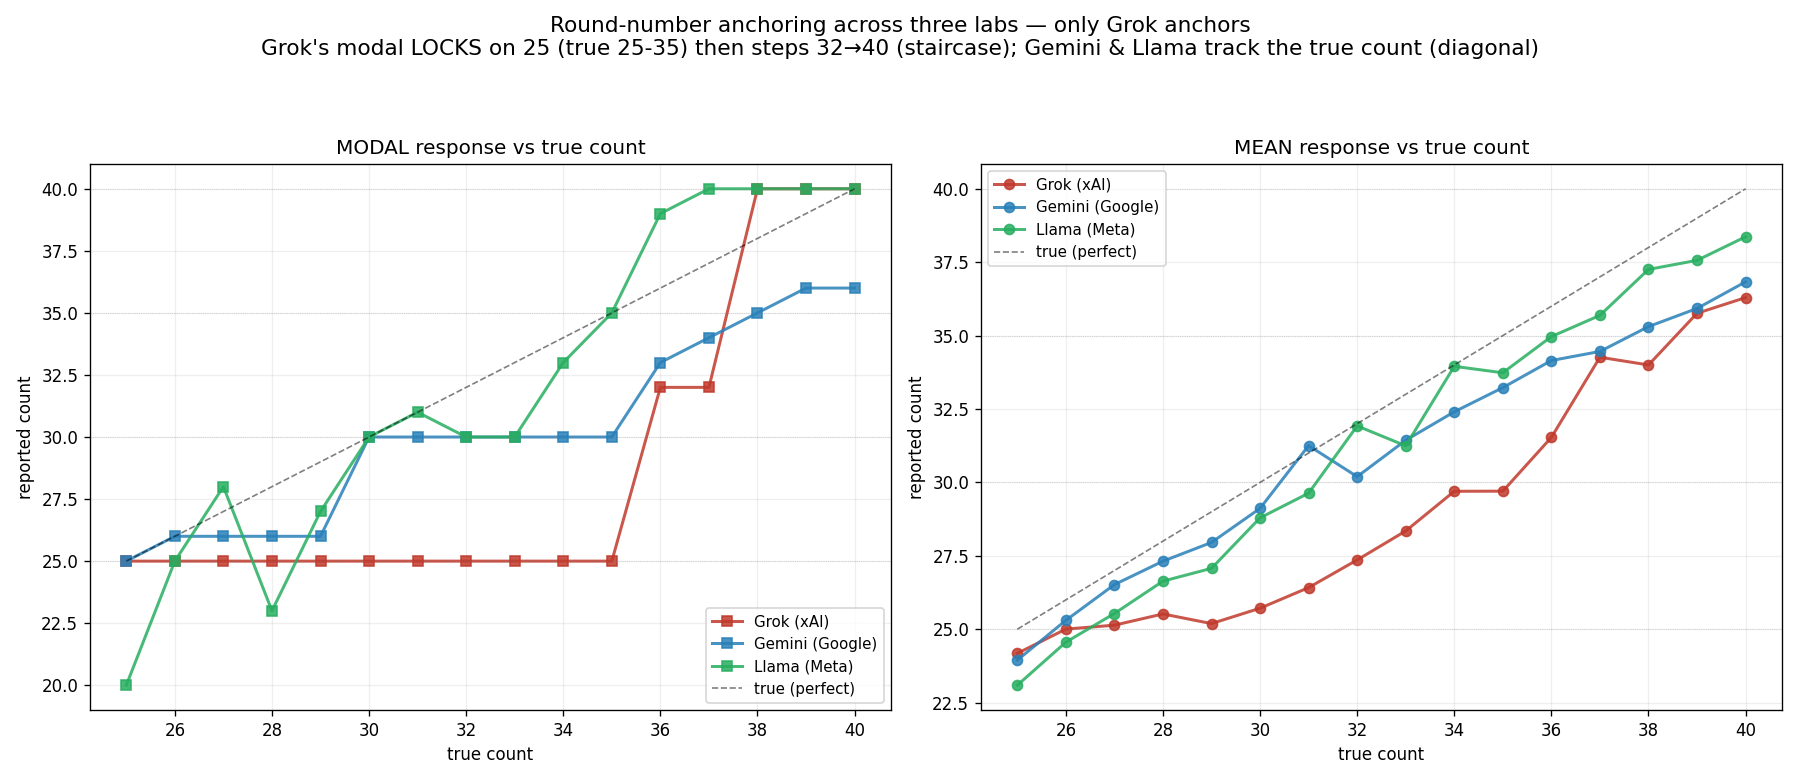
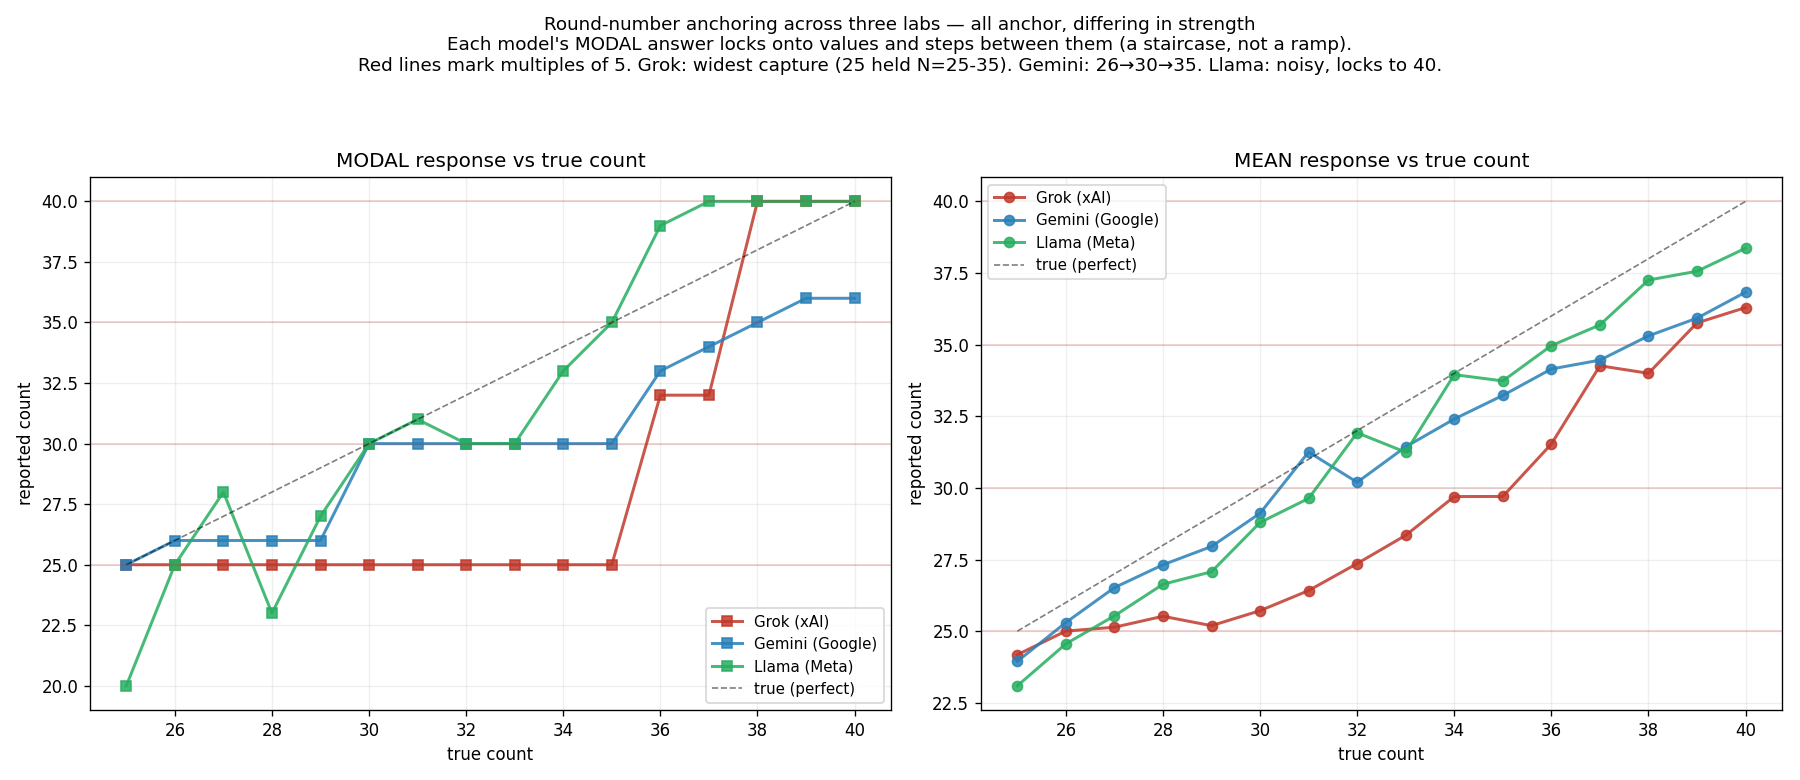
Correct anchoring framing: ALL THREE models anchor, differing in strength
Revised reading of the modal data: Gemini and Llama also show round-number locking (modal
plateaus stepping 25->30->35/40), not smooth tracking as first written. All three produce
staircases; they differ in strength (Grok: 11-count capture zone on 25, 55% of answers round;
Gemini/Llama: ~4-count plateaus, bulk near chance but mode still locks). Added quantitative
capture-width + modal-on-x5 + share-on-x5 metrics. Updated paper, both READMEs, the 3-model
figure title, and regenerated the .docx. Tightened the methodology section.

🤖 Generated with [Claude Code](https://claude.com/claude-code)

diff --git a/number-sense/PAPER.md b/number-sense/PAPER.md
@@ -1,4 +1,4 @@
-# Number Sense in Vision-Language Models: Subitizing, Weberian Estimation, and Model-Specific Round-Number Anchoring
+# Number Sense in Vision-Language Models: Subitizing, Weberian Estimation, and Round-Number Anchoring
 
 *Ted Inoué, with the Solebury Mountain Research Collective*
 *Working paper — data and code: github.com/tedinoue/cogpsych-llm*
@@ -12,15 +12,17 @@ whether they can count but what the *shape* of their number cognition is, and wh
 the human profile. Across three models from three independent labs (xAI's Grok, Meta's Llama,
 Google's Gemini), a coarse human signature replicates: near-exact performance on small sets
 (subitizing) gives way, above ~4 items, to estimation whose error grows with the number being
-judged (Weber's law). The fine structure, however, is model-specific. Only one model (Grok)
-subitizes perfectly; estimation precision tracks model capability; and most strikingly,
-**round-number anchoring** — a documented human estimation strategy in which responses cluster on
-multiples of five — appears strongly in Grok and is essentially absent in Gemini and Llama. We
-demonstrate the anchoring result with a dedicated test covering every integer from 25 to 40, where
-Grok's single most-common answer remains locked on "25" across true counts from 25 through 35
-before stepping discretely upward. We conclude that the analog magnitude system (subitizing plus
-magnitude-scaled error) is architecture-general, while its precision and the human-like
-decision-strategy overlay that sits on top of it are model-specific. All raw model responses are
+judged (Weber's law). The fine structure varies by model. Only one model (Grok) subitizes
+perfectly; estimation precision tracks model capability; and **round-number anchoring** — a
+documented human estimation strategy in which responses cluster on multiples of five — appears in
+**all three** models, varying markedly in strength. We demonstrate this with a dedicated test
+covering every integer from 25 to 40: each model's most-common answer locks onto preferred values
+and holds them across runs of consecutive true counts (a staircase), Grok most extremely (its mode
+remains "25" across true counts 25 through 35), Gemini and Llama more mildly (modal plateaus of
+about four counts on values such as 26, 30, and 40). We conclude that the analog magnitude system
+(subitizing plus magnitude-scaled error) is architecture-general, and that the human-like
+round-number-anchoring strategy is architecture-general in kind while differing in degree across
+models; estimation precision, in turn, tracks model capability. All raw model responses are
 published; every reported value was scored by reading the responses, not by automated parsing.
 
 ---
@@ -97,7 +99,7 @@ absolute error grows with the number judged.
 - **Weberian error growth.** Above the subitizing range, the spread of responses widens with the
   true count — error scaling with magnitude, the analog-estimation signature. The coefficient of
   variation is present but is *not* a clean flat constant of the idealized human kind; it wobbles,
-  and (in Grok) is distorted by round-number clustering (§4).
+  and is distorted by the round-number clustering documented in §4.
 - **Precision tracks model quality.** Gemini, the strongest of the three small models, produces
   the tightest estimates and never fails. Llama, the weakest, is the noisiest and occasionally
   breaks down (refusals, garbled output, wild outliers). The analog system appears universal; its
@@ -108,7 +110,7 @@ absolute error grows with the number judged.
 The basic number-sense shape thus appears across three independent architectures and vendors; it
 is not an artifact of any one lab's model.
 
-## 4. Results: round-number anchoring is model-specific
+## 4. Results: round-number anchoring is general, and varies in strength
 
 The Weber experiment alone cannot test for round-number anchoring, because its high-N set sizes
 (15, 20, 25, 30, 40) are themselves mostly round: a model is almost never shown a non-round
@@ -116,53 +118,71 @@ quantity in the range where rounding would surface. We therefore ran a dedicated
 integer from 25 to 40**, interleaving round anchors (25, 30, 35, 40) with non-round fillers.
 
 The clean diagnostic is the **modal response** — the single most common answer at each true count.
-If a model anchors, its most likely answer stays "stuck" on a round value as the true count
-changes, producing a flat *staircase* when modal response is plotted against true count. If a model
-estimates honestly, its modal response climbs with the true count, producing a *diagonal*. (We
-avoid leaning on "percent of answers that are multiples of five," because at a true count of 25 the
-answer "25" is also simply correct; that metric conflates anchoring with accuracy.)
+If a model anchors, its most likely answer stays "stuck" on a value across a run of consecutive
+true counts, producing a *staircase* when modal response is plotted against true count: flat treads
+on preferred values, with discrete steps between them. If a model estimated without any preferred
+values, its modal response would climb smoothly with the true count (a diagonal).
 
-The three models dissociate sharply:
+**All three models produce staircases, not diagonals.** Each one's modal answer locks onto a value
+and holds it across a run of true counts before stepping. Their modal sequences (true count 25 → 40):
 
-| Model | Anchors? | Modal response, true counts 25 → 40 |
-|---|---|---|
-| **Grok** (xAI) | **Yes, strongly** | locked on **25** from true 25 through 35, then steps to 32, then 40 — a staircase |
-| **Gemini** (Google) | No | climbs with the true count — a diagonal |
-| **Llama** (Meta) | No | climbs with the true count (noisy; mild stickiness near 40) — a diagonal |
+- **Grok:** 25, 25, 25, 25, 25, 25, 25, 25, 25, 25, 25, 32, 32, 40, 40, 40
+- **Gemini:** 25, 26, 26, 26, 26, 30, 30, 30, 30, 31, 30, 33, 35, 35, 36, 36
+- **Llama:** 20, 25, 28, 23, 27, 30, 31, 30, 30, 33, 36, 39, 40, 40, 40, 40
 
-Grok's anchoring is dramatic: its single most likely answer does not move across an eleven-unit
-range of true counts (25 through 35). The mean creeps upward over that range only because a
-minority of non-"25" responses drags the average along; the *mode* — the model's go-to answer — is
-flat. Gemini and Llama, by contrast, track the true count with no round-number lock-on. All three
-under-estimate, but only Grok rounds.
+Gemini's mode holds at ~26 across true counts 26–29, then locks on **30** across 30–33, then climbs
+in steps and reaches only 35–36 even when the true count is 40. Llama, noisier, bounces near 25 for
+25–29, sticks near **30** for 30–33, then climbs and locks on **40** for the top four. Grok shows the
+same behavior in extreme form.
 
-Round-number anchoring — a documented *human* estimation strategy, and thus a point of potential
-convergence between model and human cognition — therefore appears strongly in one frontier model
-and is absent in two others. It is not a universal property of vision-LLM number estimation. It
-belongs to each model's particular profile.
+Three quantitative measures (true counts 25–40; for a non-anchoring estimator, chance gives a modal
+multiple-of-five at ~4/16 and ~20% of all answers on a multiple of five):
+
+| Measure | Grok (xAI) | Gemini (Google) | Llama (Meta) |
+|---|---|---|---|
+| True counts whose **mode is a multiple of 5** | **14 / 16** | 8 / 16 | 9 / 16 |
+| Widest **capture zone** (consecutive true counts sharing one locked mode) | **11** (value 25) | 4 (values 26, 30) | 4 (value 40) |
+| Share of **all** answers on a multiple of 5 | **55 %** | 25 % | 26 % |
+
+The pattern is consistent across all three labs: round-number/value anchoring is present in every
+model, manifesting as modal plateaus that lock onto preferred values and step between them. What
+differs is **strength**. Grok is extreme — its mode holds the value 25 across eleven consecutive
+true counts, nearly all of its modal answers are multiples of five, and a clear majority (55%) of
+*all* its responses are multiples of five, far above the ~20% chance baseline. Gemini and Llama are
+milder: their overall multiple-of-five rates sit only just above chance (25–26%), but their *modal*
+answers nonetheless lock into round plateaus (four-count treads on 26, 30, and 40), which is the
+anchoring signature appearing in the mode even when the bulk distribution looks near-chance.
+
+Round-number anchoring is a documented *human* estimation strategy (anchoring-and-adjustment; the
+clustering of numerosity estimates on round values — Tversky & Kahneman, 1974; Solstad et al.,
+2026), and is thus a point of convergence between model and human cognition. Our data indicate this
+convergence is **architecture-general in kind but model-specific in degree**: every model anchors,
+and they differ markedly in how wide the capture zones are and how strongly the responses pile onto
+round values.
 
 ## 5. Discussion
 
-Two layers separate cleanly in these data. The **analog magnitude layer** — subitizing followed by
+Two layers appear in these data. The **analog magnitude layer** — subitizing followed by
 magnitude-scaled estimation error — is shared across all three models and matches the human core
 number sense in shape. The **decision-strategy layer** that humans lay on top of the analog
-estimate — comparison to references, partitioning, and round-number anchoring — is *model-specific*:
-it is pronounced in Grok and largely absent in Gemini and Llama.
+estimate — comparison to references, partitioning, and round-number anchoring — also appears across
+all three, but its *strength* varies sharply by model: pronounced in Grok (wide capture zones, a
+majority of answers on round values), milder in Gemini and Llama (short modal plateaus, bulk
+distributions only just above chance).
 
 This maps onto a useful framing of human numerical cognition itself, in which a shared, evolutionarily
-old analog system is augmented by learned, language-mediated procedures. The models appear to
-reproduce the analog layer near-universally while differing in which human-like decision strategies,
-if any, they have acquired. We summarize this as each model having its own "numerical personality":
-the broad number-sense shape is convergent, the fine structure is not.
+old analog system is augmented by learned, language-mediated procedures. The models reproduce the
+analog layer near-universally and also exhibit the round-number-anchoring strategy near-universally,
+differing in how strongly that strategy is expressed. We summarize this as each model having its own
+"numerical personality": the broad shape is convergent in kind, the degree of each feature is not.
 
-A note on the round-number result and human comparison: it would be a mistake to read Grok's
-anchoring as a *non-human* quirk. Humans anchor on round numbers in exactly this paradigm. Grok's
-anchoring is, if anything, a point of convergence with human decision strategy — and what the
-cross-model picture adds is that this convergence is itself model-dependent, present in some systems
-and not others.
+A note on the round-number result and human comparison: it would be a mistake to read this
+anchoring as a *non-human* quirk. Humans anchor on round numbers in exactly this paradigm. The
+models' anchoring is, if anything, a point of convergence with human decision strategy — and what
+the cross-model picture adds is that the *degree* of this convergence is model-dependent.
 
 *A casual, non-load-bearing observation, offered only as a direction for future work and not as a
-finding:* in separate, earlier color-perception work, the same model (Grok) tended to hold a
+finding:* in separate, earlier color-perception work, one of these models (Grok) tended to hold a
 canonical reference value — a named color, "school-bus yellow," cited to a standard — against a
 gradually shifting perceptual input longer than other models, and to manufacture precise-sounding
 reference values when pressed. Whether this loosely resembles the number-anchoring behavior, and
@@ -176,23 +196,15 @@ Every numeric result above was obtained by **reading** the model responses, not 
 answers with a script. This is deliberate. Automated extraction of "the answer" from a
 language-model response is unreliable for anything beyond the most trivial outputs: models narrate
 a count before committing to a total, self-correct mid-response, answer in an unexpected register,
-or produce ranges and refusals. A regex that reduces all of this to a single integer produces
-*unreliable data*, not merely unreliable analysis — and does so silently. In the course of this work,
-an automated parser turned a *correct* high-count answer into a fabricated "catastrophic collapse"
-by grabbing a digit out of the model's enumeration list; the error was invisible until the raw
-responses were read.
+or produce ranges and refusals. A regular expression that reduces all of this to a single integer
+can silently produce *unreliable data*, not merely unreliable analysis — for example by grabbing a
+digit out of an enumeration list rather than the final committed total.
 
-The harness therefore writes every full response to disk, and analysis is performed by reading.
-This repository publishes all raw responses so that any reader can re-score them. The visualization
-scripts operate only on the human-read answer values, never on raw model output.
-
-We also note, frankly, that several of this study's conclusions were revised after human review of
-the model's own confident summaries: an apparent "collapse" that was a parsing artifact; an initial
-reading of round-number clustering as non-human that the human literature corrected to a
-convergence; and a premature "absent in other models" claim about anchoring that had in fact never
-been tested until the dedicated experiment of §4 was run. The analysis pipeline's human-in-the-loop
-review step changed the conclusions, and we regard that as a feature of the method rather than an
-embarrassment to be hidden.
+The harness therefore writes every full response to disk, and analysis is performed by reading those
+responses; the answer-extraction is done by a human reader, with every ambiguous case (self-
+corrections, ranges, refusals) adjudicated explicitly and recorded. This repository publishes all
+raw responses so that any reader can re-score them independently. The visualization scripts operate
+only on the human-read answer values, never on raw model output.
 
 ## 7. Limitations
 

diff --git a/number-sense/anchoring/README.md b/number-sense/anchoring/README.md
@@ -32,29 +32,44 @@ true N):
 answering "25" is also just *correct*, so that metric conflates anchoring with accuracy. The
 modal staircase and the per-N histograms are the clean signals.)
 
-## Result: anchoring is model-specific — only Grok anchors
+## Result: all three models anchor — differing in strength
 
 ![three-model comparison](figures/anchor_three_model.png)
 
-| Model | Anchors? | Modal behavior (true 25 → 40) |
-|---|---|---|
-| **Grok** (grok-4.20-non-reasoning, xAI) | **Yes, strongly** | modal **locked on 25 from true 25 through 35**, then steps to 32, then 40 — a staircase |
-| **Gemini** (gemini-2.5-flash-lite, Google) | No | modal **climbs with the true count** (tracks the diagonal) |
-| **Llama** (llama-3.2-11b-vision, Meta) | No | modal **climbs with the true count** (noisy; mild stickiness on 40 at the top) |
+Every model's modal answer locks onto values and holds them across runs of consecutive true counts
+before stepping — a **staircase**, not a smooth diagonal. Modal sequences (true 25 → 40):
 
-- **All three systematically *under-estimate*** (mean below the true count, gap widening with N) —
-  a shared compression. But only Grok's *modal* answer anchors.
-- **Grok's anchoring is dramatic**: its single most likely answer doesn't move across an 11-unit
-  range of true counts (25→35). See [`figures/anchor_grok_hist_curve.png`](figures/anchor_grok_hist_curve.png)
-  and the per-N histograms [`figures/anchor_grok_hist.png`](figures/anchor_grok_hist.png).
-- **Gemini and Llama track** the true count with no round-number lock-on
-  ([gemini](figures/anchor_gemini_hist_curve.png), [llama](figures/anchor_llama_hist_curve.png)).
+- **Grok:**  `25 25 25 25 25 25 25 25 25 25 25 32 32 40 40 40`
+- **Gemini:** `25 26 26 26 26 30 30 30 30 31 30 33 35 35 36 36`
+- **Llama:**  `20 25 28 23 27 30 31 30 30 33 36 39 40 40 40 40`
+
+Gemini's mode holds ~26 across true 26–29, then locks on **30** across 30–33, climbs in steps, and
+reaches only 35–36 even at true 40. Llama (noisier) bounces near 25 for 25–29, sticks near **30**
+for 30–33, then climbs and locks on **40** for the top four. Grok shows the same behavior in extreme
+form (its mode holds the value 25 across true counts 25–35).
+
+Quantitatively (true 25–40; a non-anchoring estimator gives a modal multiple-of-5 at ~4/16 and ~20%
+of all answers on a multiple of 5):
+
+| Measure | Grok (xAI) | Gemini (Google) | Llama (Meta) |
+|---|---|---|---|
+| True counts whose **mode is a multiple of 5** | **14 / 16** | 8 / 16 | 9 / 16 |
+| Widest **capture zone** (consecutive counts on one locked mode) | **11** (value 25) | 4 (26, 30) | 4 (40) |
+| Share of **all** answers on a multiple of 5 | **55 %** | 25 % | 26 % |
+
+- **All three under-estimate** (mean below the true count, gap widening with N) — a shared compression.
+- **All three anchor** — their modal answers form round-number plateaus. They differ in **strength**:
+  Grok is extreme (an 11-count capture zone on 25; 55% of all answers round), while Gemini and Llama
+  are milder (≈4-count plateaus; bulk distributions only just above the ~20% chance rate, but the
+  *mode* still locks into round treads). Per-model views:
+  [grok](figures/anchor_grok_hist_curve.png), [gemini](figures/anchor_gemini_hist_curve.png),
+  [llama](figures/anchor_llama_hist_curve.png).
 
 **Takeaway:** round-number anchoring — a documented human estimation strategy (anchoring-and-
 adjustment; people cluster numerosity estimates on round values, e.g. Tversky & Kahneman 1974;
-Solstad et al. 2026) — appears strongly in one frontier model and is absent in two others. It is
-**not a universal property of vision-LLM number estimation.** It belongs to each model's
-particular "numerical personality."
+Solstad et al. 2026) — appears in **all three** models from three independent labs. It is
+**architecture-general in kind but model-specific in degree**: every model anchors, and they differ
+markedly in how wide the capture zones are and how strongly responses pile onto round values.
 
 ## Honest caveats
 

diff --git a/number-sense/README.md b/number-sense/README.md
@@ -60,7 +60,7 @@ models. It is not an artifact of any one lab.
 | Subitizing (1–4) | **perfect, zero variance** | imperfect | imperfect (slight over) |
 | Estimation precision | medium | **noisiest**, sometimes breaks down | **tightest, most accurate** |
 | High-N bias | under-estimates | ~unbiased / slightly over | mild under, tight |
-| Round-number anchoring | **strong** (snaps to 25; anchors on 25 for N=30) | none | none |
+| Round-number anchoring | **strong** (mode holds 25 across true 25–35) | mild (modal plateaus, locks 40 at top) | mild (modal plateaus on 26, 30) |
 | Reliability | clean | refusals / garbled outputs | clean (0 failures) |
 
 Three through-lines emerge:
@@ -74,25 +74,26 @@ Three through-lines emerge:
    sometimes breaks down. The analog magnitude system appears universal; its *precision* is
    capability-dependent.
 
-3. **Human-like round-number anchoring is model-specific.** The decision-strategy overlay
-   that makes humans cluster on round numbers (Solstad et al. 2026) shows up **strongly in
-   Grok and not at all in Llama or Gemini**. The point where the model most resembles human
-   *strategy* is the most variable across models.
+3. **Human-like round-number anchoring appears in all three models, varying in strength.** The
+   decision-strategy overlay that makes humans cluster on round numbers (Solstad et al. 2026) shows
+   up in every model — pronounced in Grok, milder in Gemini and Llama. The degree of this human-like
+   strategy is what varies across models.
 
 ### Relation to humans, and a dedicated anchoring test
 
-The round-number anchoring we see in Grok is **not** a non-human quirk — humans do exactly
-this. Solstad et al. (2026), using a near-identical 1–50 dot paradigm, find people estimate
-by comparing to remembered references and partitioning, anchoring on round numbers
-("I can't get away from my start-guess at 34"). So Grok's anchoring is a point of
-*convergence* with human decision strategy, not a divergence.
+The round-number anchoring we see is **not** a non-human quirk — humans do exactly this. Solstad et
+al. (2026), using a near-identical 1–50 dot paradigm, find people estimate by comparing to
+remembered references and partitioning, anchoring on round numbers ("I can't get away from my
+start-guess at 34"). So the models' anchoring is a point of *convergence* with human decision
+strategy, not a divergence.
 
-But how strong is it, and is it general? The main study's high-N set sizes (15/20/25/30/40)
-are themselves mostly round, so they can't actually test for anchoring. A **dedicated test —
-every integer 25–40, all three models** — is in [`anchoring/`](anchoring/). Result: anchoring
-is **model-specific**. Grok's modal answer locks on 25 across true counts 25–35 (a staircase);
-Gemini and Llama track the true count (a diagonal). So the human-like anchoring strategy shows
-up strongly in one model and is absent in two others. See [`anchoring/README.md`](anchoring/README.md).
+But how strong is it, and is it general? The main study's high-N set sizes (15/20/25/30/40) are
+themselves mostly round, so they can't actually test for anchoring. A **dedicated test — every
+integer 25–40, all three models** — is in [`anchoring/`](anchoring/). Result: **all three models
+anchor**, their modal answers forming round-number plateaus (a staircase), differing in strength —
+Grok's mode holds 25 across true counts 25–35 (an 11-count capture zone, 55% of all answers round),
+while Gemini and Llama show milder ≈4-count plateaus (on 26/30/40). See
+[`anchoring/README.md`](anchoring/README.md).
 
 ### A separate finding: the count word gates the count (lexical effect)
 